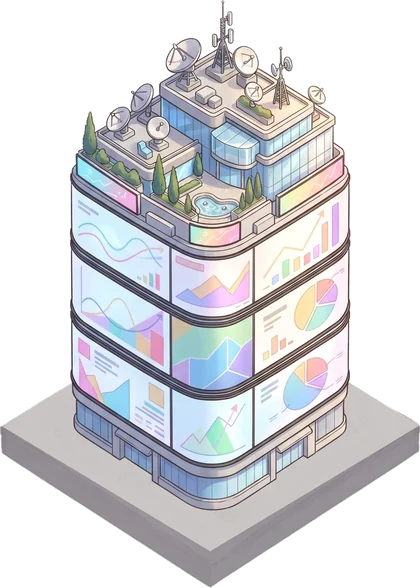
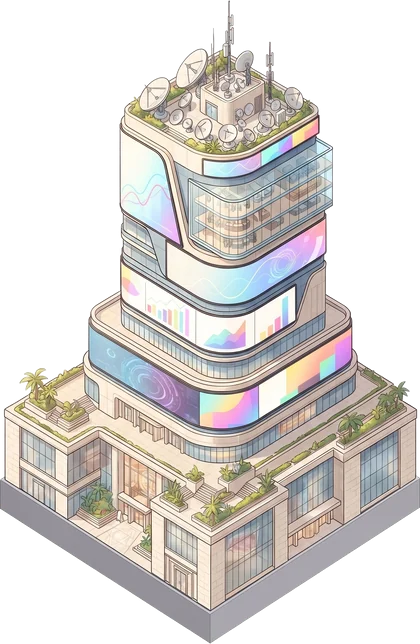
วงใน i14 ตึกสื่อ ภาพใหม่ฐานเต็มแผ่น
Claude-Session: https://claude.ai/code/session_017ecwu3HZ4xGQvdoVQrkrYe

diff --git a/index.html b/index.html
@@ -3036,7 +3036,7 @@ const PROPIMG={i1:71.2,i3:71.0,i5:67.4,i7:72.9,i9:71.0,i11:68.7,i13:70.8,i15:71.
 const PROPR={i1:.603,i3:.603,i5:.603,i7:.603,i9:.603,i11:.603,i13:.603,i15:.603,o10:.603,o22:.603,o34:.603,o46:.603,o13:.603,o15:.603,o16:.603,o19:.603,o21:.603,o25:.603,o27:.603,o28:.603,o31:.603,o33:.603,o37:.603,o39:.603,o40:.603,o43:.603,o45:.603},TILE_ROAD={c:44,r:.603};/* r = สัดส่วนสูง/กว้างของพื้นข้าวหลามตัดในภาพ (ภาพเกษตรชุดแรก .766) — ภาพทุกภาพถูกยืดให้ตรงกับมุมกล้องเดียวกัน */
 function tileSty(k,c,r){let d=0;try{const q=cellPos(k);d=q[0]+q[1]}catch(e){}const sd=Math.floor(+k.slice(1)/(RING_LEN[k[0]]/4))%4;return `--b:${c}%;--s:${(1/r).toFixed(4)};--m:${sd%2?-1:1};--d:${d}`}
 const TILE_BASE_ON=true;/* พื้นหญ้าเปล่า (P001) ใต้ช่องวงนอกที่ยังไม่มีภาพของตัวเอง */
-const SQIMG={o0:['sq-start',70.2],o12:['sq-pay-o12',62.0],o24:['sq-pay-o24',67.2],o36:['sq-pay-o36',65.7],o2:['sq-rest-o2',48.1],o14:['sq-rest-o14',52.2],o26:['sq-rest-o26',52.5],o38:['sq-rest-o38',51.1],o5:['sq-ent-o5',47.9],o17:['sq-ent-o17',46.7],o29:['sq-ent-o29',47.4],o41:['sq-ent-o41',59.0],o8:['sq-study-o8',46.5],o20:['sq-study-o20',48.9],o32:['sq-study-o32',44.7],o44:['sq-study-o44',58.0],o11:['sq-jobless-o11',54.5],o35:['sq-charity-o35',48.7],o23:['sq-splurge-o23',50.3],o47:['sq-splurge-o47',53.4],o6:['sq-road-o6',47.1],i4:['sq-road-i4',45.8],o18:['sq-road-o18',46.1,1],i12:['sq-road-i12',48.2,1],o30:['sq-road-o30',44.0,1],o42:['sq-road-o42',50.9],i28:['sq-road-i28',56.8],i0:['sq-pay-i0',73.9],i2:['sq-bizc-i2',70.8],i6:['sq-study-i6',71.5],i8:['sq-exch-i8',73.9],i10:['sq-rest-i10',71.5],i14:['sq-news-i14',72.6],i20:['sq-road-i20',51.1,1]};/* ค่าที่ 3 = บังคับ --m (1 = ไม่กลับซ้ายขวา) ให้ถนนในภาพชี้เข้าหาทางข้าม *//* ภาพเฉพาะช่องพิเศษวงนอก [ไฟล์, c%] (P022–P029) — ช่องที่ไม่มีใช้หญ้า P001 */
+const SQIMG={o0:['sq-start',70.2],o12:['sq-pay-o12',62.0],o24:['sq-pay-o24',67.2],o36:['sq-pay-o36',65.7],o2:['sq-rest-o2',48.1],o14:['sq-rest-o14',52.2],o26:['sq-rest-o26',52.5],o38:['sq-rest-o38',51.1],o5:['sq-ent-o5',47.9],o17:['sq-ent-o17',46.7],o29:['sq-ent-o29',47.4],o41:['sq-ent-o41',59.0],o8:['sq-study-o8',46.5],o20:['sq-study-o20',48.9],o32:['sq-study-o32',44.7],o44:['sq-study-o44',58.0],o11:['sq-jobless-o11',54.5],o35:['sq-charity-o35',48.7],o23:['sq-splurge-o23',50.3],o47:['sq-splurge-o47',53.4],o6:['sq-road-o6',47.1],i4:['sq-road-i4',45.8],o18:['sq-road-o18',46.1,1],i12:['sq-road-i12',48.2,1],o30:['sq-road-o30',44.0,1],o42:['sq-road-o42',50.9],i28:['sq-road-i28',56.8],i0:['sq-pay-i0',73.9],i2:['sq-bizc-i2',70.8],i6:['sq-study-i6',71.5],i8:['sq-exch-i8',73.9],i10:['sq-rest-i10',71.5],i14:['sq-news-i14',74.5],i20:['sq-road-i20',51.1,1]};/* ค่าที่ 3 = บังคับ --m (1 = ไม่กลับซ้ายขวา) ให้ถนนในภาพชี้เข้าหาทางข้าม *//* ภาพเฉพาะช่องพิเศษวงนอก [ไฟล์, c%] (P022–P029) — ช่องที่ไม่มีใช้หญ้า P001 */
 function tileBase(k){if(!TILE_BASE_ON||(k[0]!=='o'&&!SQIMG[k])||k in PROPIMG)return '';const q=SQIMG[k];return `<img class="zimg pimgc tbase${q?' sqimg':''}" style="${tileSty(k,q?q[1]:TILE_ROAD.c,TILE_ROAD.r)}${q&&q[2]!=null?';--m:'+q[2]:''}" src="img/${q?q[0]:'tile-grass'}.webp" alt="">`}
 function toggleMap(){MAPMIN=!MAPMIN;try{localStorage.setItem('ff-mapmin',MAPMIN?'1':'0')}catch(e){}render()}
 function render(){

diff --git a/graphify.md b/graphify.md
@@ -376,3 +376,4 @@ flowchart LR
 | 2026-11-20 | Claude (แก๊ง · แชตคลังภาพ) | **ภาพวงในชุด F ย่านช้อปปิ้ง (i8–i15)** (คลัง `image-prompts-inner.md` P038a–g · ภาพ Gemini 1792×2390 มุมแผ่น L(170,1720) R(1621,1725) → ตัด x170–1622 กว้าง 420 · c=(1722−บน)/สูง): ช่องพิเศษ `SQIMG` i8 ตลาดหลักทรัพย์ `sq-exch-i8` 73.9 · i10 โดมแก้ว `sq-rest-i10` 71.5 · i14 ตึกสื่อ `sq-news-i14` 72.6 — ที่ดิน `PROPIMG`+`PROPR .603` i9 ร้านอาหาร 71.0 · i11 คอมมูนิตี้มอลล์ 68.7 · i13 ห้างสรรพสินค้า 70.8 · i15 ศูนย์การค้าใหญ่ 71.9 · i11 มีป้าย "Café" ในภาพ (ผิดกฎไม่มีตัวหนังสือ — รอเจ้าของตัดสิน) · sim3 errors [] |
 | 2026-11-20 | Claude (แก๊ง · แชตคลังภาพ) | **แถบกลางฝั่งหน้าทับขอบแผ่นวงใน** (เจ้าของสั่ง): ช่องวงในที่มีภาพถูกยก translateZ(.7px) ทำให้ขอบแผ่น/ฐานช่องวงในฝั่งหน้าทับแถบกลาง (.785px) → ช่องวงในฝั่งหน้า i9–i23 (คอลัมน์ 11 แถว 4–11 · แถว 11 คอลัมน์ 4–10) translateZ(-.3px) อยู่ใต้แถบ · มุม i8/i24 คง .7 (ตึกต้องอยู่หน้าช่องข้างๆ) แล้วยกแถบหน้าที่ติดมุม (3,12) และ (12,3) เป็น 1.35px แทน · สถานี i12/i20 ต่อกับทางยกระดับ/รางในแถบได้ตามเดิม · sim3 errors [] |
 | 2026-11-20 | Claude (แก๊ง · แชตคลังภาพ) | **ลำดับชั้น 3D ใหม่ ใช้ความลึก d ล้วน** (เจ้าของสั่ง: วงในขวาล่างอยู่บนกว่าวงในขวาบน · ตลาดหลักทรัพย์ i8 อยู่บนกว่าขวาบน แต่ต่ำกว่าขวาล่าง): เลิกยกช่องวงในที่มีภาพ (.7px) และเลิกค่าคงที่ของแถบ (.6/.785) → แถบหลัง `.bandt.bk` translateZ(d×.04−.02) · แถบหน้า translateZ(d×.04+.02) · ช่องวงในไม่ยก (img มี translateZ d×.04 อยู่แล้ว) → วงนอกแถว1/คอลัมน์1 < แถบหลัง < วงใน (เรียงตาม d) < แถบหน้า < วงนอกฝั่งหน้า · ทางเข้า B/C/D ยังต่อกัน · sim3 errors [] |
+| 2026-11-20 | Claude (แก๊ง · แชตคลังภาพ) | i14 ตึกสื่อ ภาพใหม่ (ส่วนหน้า v7 + ภาพแบบโพเดียม `guide-podium` บังคับฐาน 3–4 ชั้นเต็มแผ่น ส่วนบนอิสระ) `sq-news-i14` c74.5 · i15 ภาพใหม่มีป้าย 'Shopping Mall' + แผ่นใหญ่กว่าแม่แบบ → ยังใช้ภาพเดิม · sim3 errors [] |
